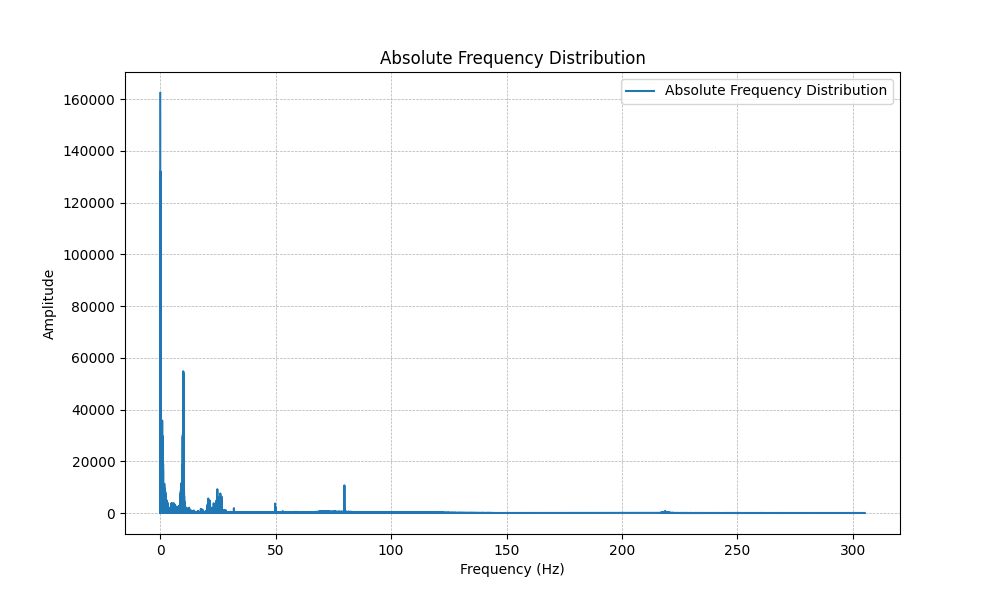
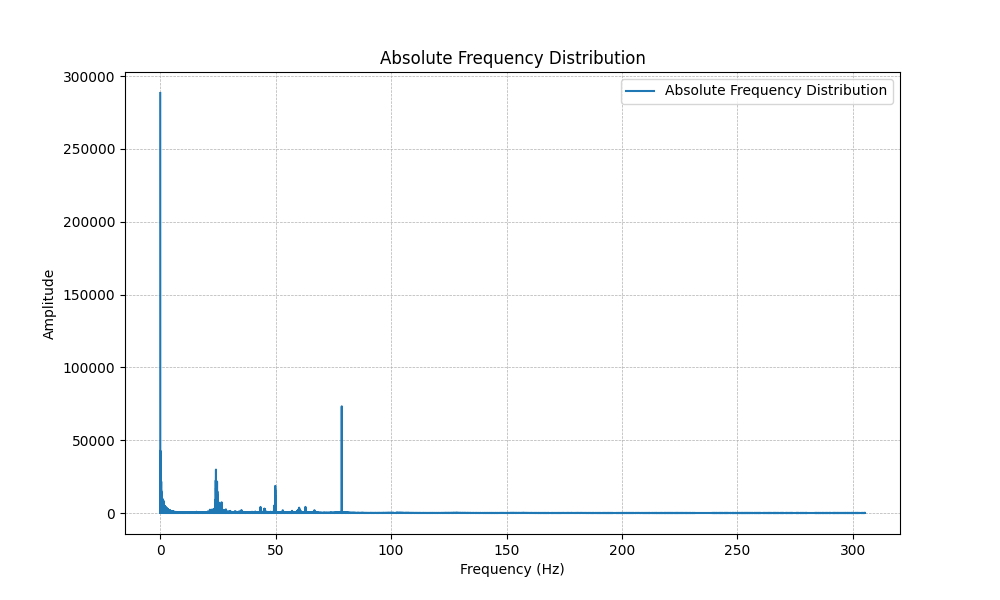
Changes to accomodate new measured data.

diff --git a/main.py b/main.py
@@ -22,6 +22,14 @@ def gon2rad(gon):
     return gon * (m.pi / 200)
 
    
+import csv
+import pandas as pd
+import math as m
+
+def gon2rad(gon):
+    """Convert gon to radians."""
+    return gon * m.pi / 200
+
 def process_interferometer_data(csv_paths, zenithal_angles, D_mm, delta_angle, omega_angle, ksi_angle, max_time=None):
     """
     Process interferometer data from CSV files and apply mathematical corrections.
@@ -41,43 +49,61 @@ def process_interferometer_data(csv_paths, zenithal_angles, D_mm, delta_angle, o
     times = []
     raw_measurements = []
 
-    # Read all CSV files simultaneously
-    with open(csv_paths[0], 'r') as file1, \
-         open(csv_paths[1], 'r') as file2, \
-         open(csv_paths[2], 'r') as file3:
+    if len(csv_paths) == 1:
+        # Reading from a single file with all data combined
+        with open(csv_paths[0], 'r') as file:
+            reader = csv.reader(file, delimiter=';')
+            headers = next(reader)  # Skip header
 
-        reader1 = csv.reader(file1, delimiter=';')
-        reader2 = csv.reader(file2, delimiter=';')
-        reader3 = csv.reader(file3, delimiter=';')
+            for row in reader:
+                # Extract time and raw measurement from each channel
+                time = float(row[0])
+                measurement1 = float(row[1])
+                measurement2 = float(row[2])
+                measurement3 = float(row[3])
 
-        header1 = next(reader1)  # Skip header
-        header2 = next(reader2)
-        header3 = next(reader3)
+                # Check if the timing is within the max_time
+                if max_time is None or time <= max_time:
+                    times.append(time)
+                    raw_measurements.append((measurement1, measurement2, measurement3))
+    else:
+        # Reading from three separate files
+        with open(csv_paths[0], 'r') as file1, \
+             open(csv_paths[1], 'r') as file2, \
+             open(csv_paths[2], 'r') as file3:
 
-        for row1, row2, row3 in zip(reader1, reader2, reader3):
-            # Extract time and raw measurement from each interferometer
-            time1, time2, time3 = float(row1[0]), float(row2[0]), float(row3[0])
-            measurement1, measurement2, measurement3 = float(row1[1]), float(row2[1]), float(row3[1])
+            reader1 = csv.reader(file1, delimiter=';')
+            reader2 = csv.reader(file2, delimiter=';')
+            reader3 = csv.reader(file3, delimiter=';')
 
-            # Check if the timing is roughly the same for all interferometers
-            if abs(time1 - time2) < 0.000001 and abs(time1 - time3) < 0.000001 and (max_time is None or time1 <= max_time):
-                times.append(time1)
-                raw_measurements.append((measurement1, measurement2, measurement3))
+            header1 = next(reader1)  # Skip header
+            header2 = next(reader2)
+            header3 = next(reader3)
 
+            for row1, row2, row3 in zip(reader1, reader2, reader3):
+                # Extract time and raw measurement from each interferometer
+                time1, time2, time3 = float(row1[0]), float(row2[0]), float(row3[0])
+                measurement1, measurement2, measurement3 = float(row1[1]), float(row2[1]), float(row3[1])
+
+                # Check if the timing is roughly the same for all interferometers
+                if abs(time1 - time2) < 0.000001 and abs(time1 - time3) < 0.000001 and (max_time is None or time1 <= max_time):
+                    times.append(time1)
+                    raw_measurements.append((measurement1, measurement2, measurement3))
+
+    # Conversion and correction parameters
     D = D_mm * 10**3
     omega = gon2rad(omega_angle)
     delta = gon2rad(delta_angle)
     ksi = gon2rad(ksi_angle)
 
-
-    # Apply mathematical corrections and calculate cartesian coordinates
+    # Initialize lists for corrected data
     horizontal_distances = []
     deltas_x = []
     deltas_y = []
     phis = []
     baseline_measurement = [None, None, None]
 
-
+    # Process each measurement
     for i, (measurement1, measurement2, measurement3) in enumerate(raw_measurements):
         # Apply mathematical corrections
         horizontal_distance1 = measurement1 * m.sin(gon2rad(zenithal_angles[0]))
@@ -88,10 +114,11 @@ def process_interferometer_data(csv_paths, zenithal_angles, D_mm, delta_angle, o
             baseline_measurement = (horizontal_distance1, horizontal_distance2, horizontal_distance3)
 
         # Calculate cartesian coordinates
-        delta_x = ((horizontal_distance1 * m.sin(delta) - baseline_measurement[0] * m.sin(delta)) + (horizontal_distance2 * m.sin(m.tau - omega) - baseline_measurement[1] * m.sin(m.tau - omega)))/2
-        phi = ((horizontal_distance2  - baseline_measurement[1] ) * m.sin(m.tau - omega) - ((horizontal_distance1 - baseline_measurement[0]) * m.sin(delta)))/D
-        delta_y = m.cos(ksi) * (horizontal_distance3 - baseline_measurement[2]) - (D/2 - (D * m.cos(phi))/2)
-
+        delta_x = ((horizontal_distance1 * m.sin(delta) - baseline_measurement[0] * m.sin(delta)) + 
+                   (horizontal_distance2 * m.sin(m.tau - omega) - baseline_measurement[1] * m.sin(m.tau - omega))) / 2
+        phi = ((horizontal_distance2 - baseline_measurement[1]) * m.sin(m.tau - omega) - 
+               ((horizontal_distance1 - baseline_measurement[0]) * m.sin(delta))) / D
+        delta_y = m.cos(ksi) * (horizontal_distance3 - baseline_measurement[2]) - (D / 2 - (D * m.cos(phi)) / 2)
 
         # Append data to lists
         horizontal_distances.append((horizontal_distance1 * 10**6, horizontal_distance2 * 10**6, horizontal_distance3 * 10**6))
@@ -111,6 +138,7 @@ def process_interferometer_data(csv_paths, zenithal_angles, D_mm, delta_angle, o
     })
 
     return df
+
 
 def analyze_data(df):
     # Find maximums and minimums in X, Y, and Phi
@@ -210,7 +238,7 @@ def analyze_data(df):
 
 
 
-def main():
+def main_old():
     current_dir = os.path.dirname(os.path.abspath(__file__))
     data_dir = "Data"
     # Paths to interferometer CSV files
@@ -240,6 +268,31 @@ def main():
     dfs = process_interferometer_data(IFM_files,IFM_zenithal_angles, D_value, delta_angle, omega_angle, ksi_angle, max_time)
 
     analyze_data(dfs)
+
+def main():
+    # Paths to interferometer CSV files
+
+    IFM_files = ['V:/Projekte/PETRA4/Pillar stability Tests/06Aug24 Instrument Stand Prototype 0 - LT_Arm_Seismo/Channels.csv']
+
+    # Zenith angles for each interferometer in gons
+    IFM_zenithal_angles = [100.4608, 104.6191, 104.6092]
+
+    # Angles for corrections in gons
+    delta_angle = -107.5968
+    omega_angle = 98.1402
+    ksi_angle = -3.6112
+
+    # Value of D in millimeters
+    D_value = 144.0975
+
+    # Maximum time in seconds
+    max_time = 15400
+
+    # Process interferometer data
+    dfs = process_interferometer_data(IFM_files,IFM_zenithal_angles, D_value, delta_angle, omega_angle, ksi_angle, max_time)
+
+    analyze_data(dfs)
+
 
 if __name__ == "__main__":
     main()
